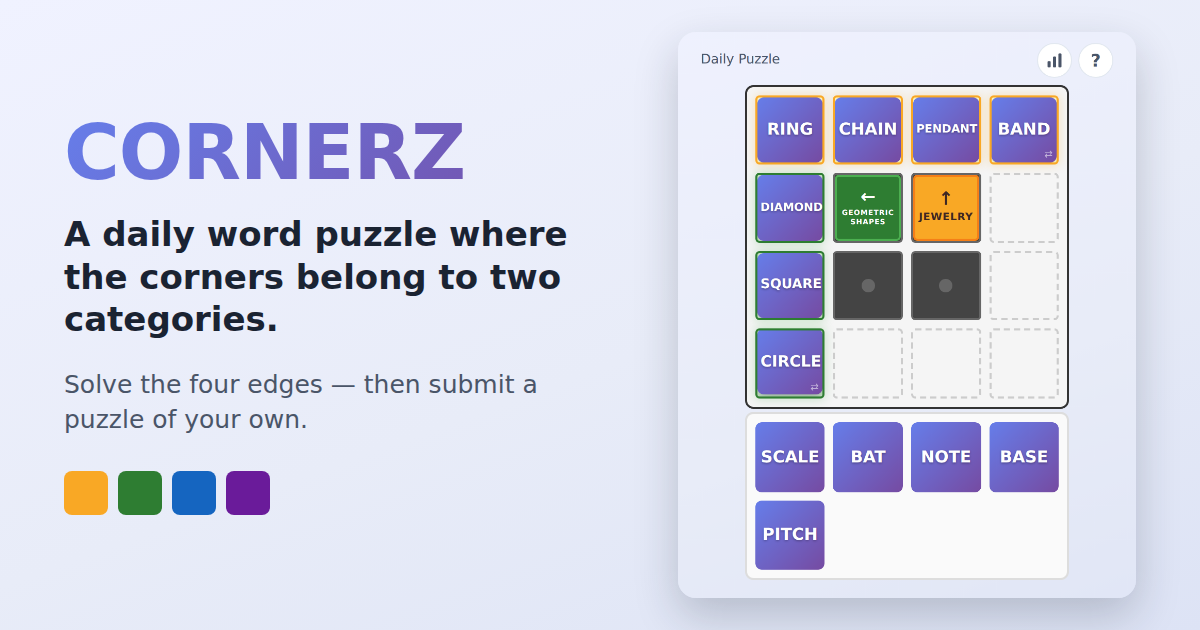
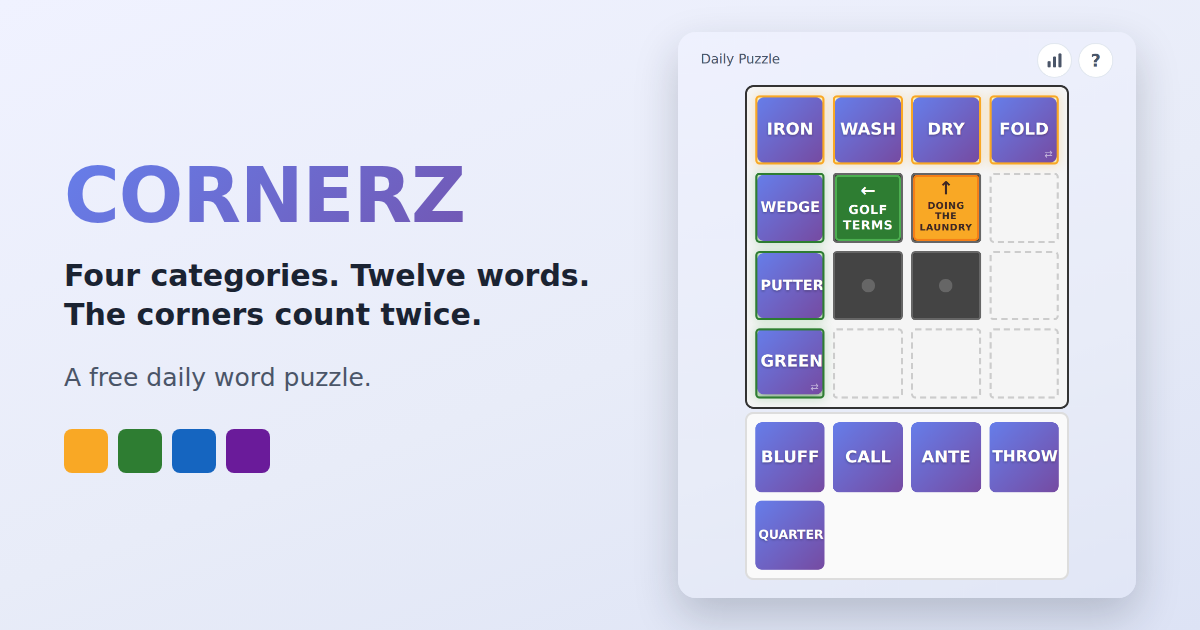
Auto-generated commit

diff --git a/404.html b/404.html
@@ -1,6 +1,6 @@
 <!DOCTYPE html><html lang="en"><head>
   <meta charset="utf-8">
-  <title>Cornerz — a daily word puzzle with community-submitted puzzles</title>
+  <title>Cornerz — a free daily word puzzle</title>
   <base href="/">
   <meta name="viewport" content="width=device-width, initial-scale=1">
   <link rel="icon" type="image/svg+xml" href="favicon.svg">
@@ -13,23 +13,23 @@
     package.json's deploy script and SITE_URL in src/app/constants/site.constants.ts.
     Regenerate the image after visual changes to the board (see FEATURES.md).
   -->
-  <meta name="description" content="A free daily word puzzle where four categories meet at the corners — each corner word belongs to two of them. Solve today's puzzle, then submit one of your own.">
+  <meta name="description" content="Four categories, twelve words, and four corner words that count toward two categories at once. A new puzzle every day.">
   <link rel="canonical" href="https://cornerz.cc/">
   <meta name="theme-color" content="#667eea">
 
   <meta property="og:type" content="website">
   <meta property="og:site_name" content="Cornerz">
   <meta property="og:url" content="https://cornerz.cc/">
-  <meta property="og:title" content="Cornerz — a daily word puzzle with community-submitted puzzles">
-  <meta property="og:description" content="Four categories, twelve words, and corners that belong to two categories at once. Play today's puzzle, then build one for everyone else.">
+  <meta property="og:title" content="Cornerz — a free daily word puzzle">
+  <meta property="og:description" content="Four categories, twelve words, and four corner words that count toward two categories at once. A new puzzle every day.">
   <meta property="og:image" content="https://cornerz.cc/assets/og-image.png">
   <meta property="og:image:width" content="1200">
   <meta property="og:image:height" content="630">
-  <meta property="og:image:alt" content="A Cornerz board with the Jewelry and Geometric Shapes lines solved, sharing the word RING in the corner.">
+  <meta property="og:image:alt" content="A Cornerz board with the Doing the Laundry and Golf Terms lines solved, sharing the word IRON in the corner.">
 
   <meta name="twitter:card" content="summary_large_image">
-  <meta name="twitter:title" content="Cornerz — a daily word puzzle with community-submitted puzzles">
-  <meta name="twitter:description" content="Four categories, twelve words, and corners that belong to two categories at once. Play today's puzzle, then build one for everyone else.">
+  <meta name="twitter:title" content="Cornerz — a free daily word puzzle">
+  <meta name="twitter:description" content="Four categories, twelve words, and four corner words that count toward two categories at once. A new puzzle every day.">
   <meta name="twitter:image" content="https://cornerz.cc/assets/og-image.png">
 
   <!--

diff --git a/index.html b/index.html
@@ -1,6 +1,6 @@
 <!DOCTYPE html><html lang="en"><head>
   <meta charset="utf-8">
-  <title>Cornerz — a daily word puzzle with community-submitted puzzles</title>
+  <title>Cornerz — a free daily word puzzle</title>
   <base href="/">
   <meta name="viewport" content="width=device-width, initial-scale=1">
   <link rel="icon" type="image/svg+xml" href="favicon.svg">
@@ -13,23 +13,23 @@
     package.json's deploy script and SITE_URL in src/app/constants/site.constants.ts.
     Regenerate the image after visual changes to the board (see FEATURES.md).
   -->
-  <meta name="description" content="A free daily word puzzle where four categories meet at the corners — each corner word belongs to two of them. Solve today's puzzle, then submit one of your own.">
+  <meta name="description" content="Four categories, twelve words, and four corner words that count toward two categories at once. A new puzzle every day.">
   <link rel="canonical" href="https://cornerz.cc/">
   <meta name="theme-color" content="#667eea">
 
   <meta property="og:type" content="website">
   <meta property="og:site_name" content="Cornerz">
   <meta property="og:url" content="https://cornerz.cc/">
-  <meta property="og:title" content="Cornerz — a daily word puzzle with community-submitted puzzles">
-  <meta property="og:description" content="Four categories, twelve words, and corners that belong to two categories at once. Play today's puzzle, then build one for everyone else.">
+  <meta property="og:title" content="Cornerz — a free daily word puzzle">
+  <meta property="og:description" content="Four categories, twelve words, and four corner words that count toward two categories at once. A new puzzle every day.">
   <meta property="og:image" content="https://cornerz.cc/assets/og-image.png">
   <meta property="og:image:width" content="1200">
   <meta property="og:image:height" content="630">
-  <meta property="og:image:alt" content="A Cornerz board with the Jewelry and Geometric Shapes lines solved, sharing the word RING in the corner.">
+  <meta property="og:image:alt" content="A Cornerz board with the Doing the Laundry and Golf Terms lines solved, sharing the word IRON in the corner.">
 
   <meta name="twitter:card" content="summary_large_image">
-  <meta name="twitter:title" content="Cornerz — a daily word puzzle with community-submitted puzzles">
-  <meta name="twitter:description" content="Four categories, twelve words, and corners that belong to two categories at once. Play today's puzzle, then build one for everyone else.">
+  <meta name="twitter:title" content="Cornerz — a free daily word puzzle">
+  <meta name="twitter:description" content="Four categories, twelve words, and four corner words that count toward two categories at once. A new puzzle every day.">
   <meta name="twitter:image" content="https://cornerz.cc/assets/og-image.png">
 
   <!--
